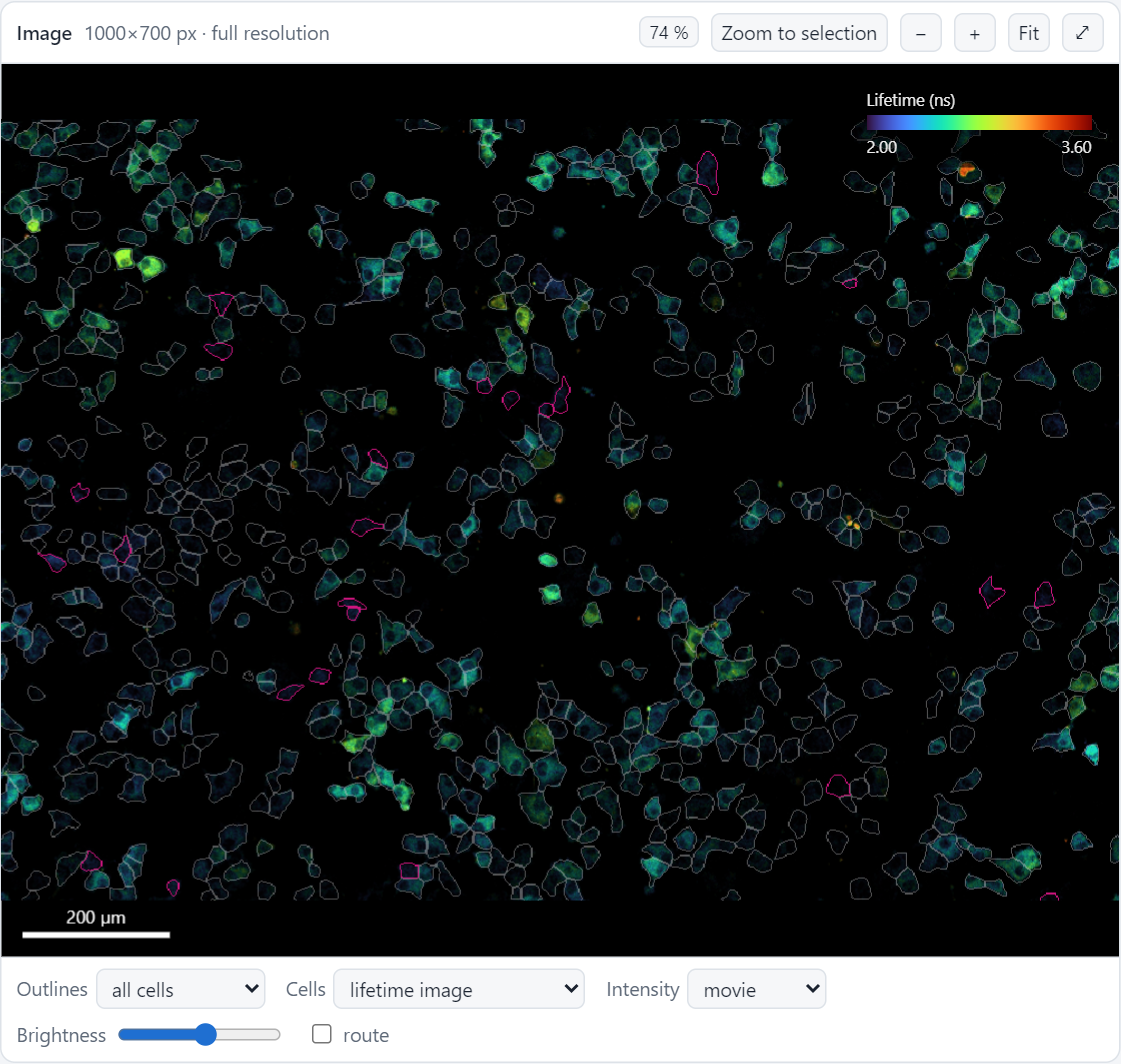
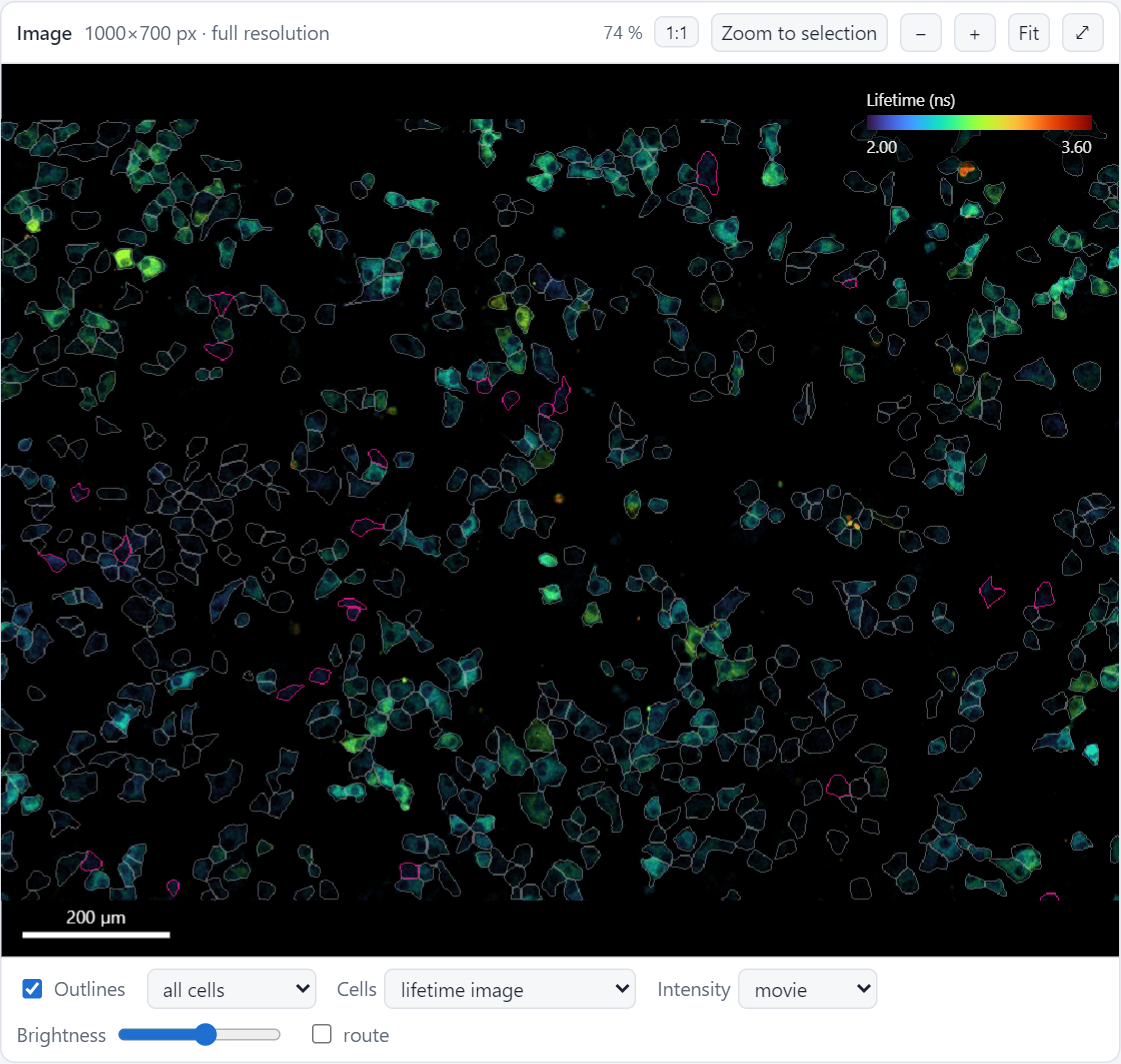
Dashboard: Zoom to selection never below Fit; the zoom percentage is a label with a 1:1 button (key 1); an Outlines checkbox to hide all outlines (key O, remembered)
Manual (dashboard page, keys) and screenshots updated.

diff --git a/src/fast_hippos/templates/dashboard/page.html b/src/fast_hippos/templates/dashboard/page.html
@@ -84,12 +84,12 @@
   </section>
   <section class="panel viewer">
     <div class="panel-h"><h2 title="The time-lapse with the lifetime as colour and the intensity as brightness. Drag to pan, Ctrl+scroll to zoom, click a cell to select it, double-click to zoom to it.">Image</h2><span id="vinfo" class="muted"></span><span class="sp"></span>
-      <button id="vzoom" class="small" title="Zoom: screen pixels per image pixel. Click for 100 % (one image pixel per screen pixel)">100 %</button><button id="vzsel" title="Zoom in on the selected cells, or on the hits when nothing is selected (Z)">Zoom to selection</button><button id="vzout" class="icon" title="Zoom out (or Ctrl+scroll wheel)">−</button><button id="vzin" class="icon" title="Zoom in (or Ctrl+scroll wheel)">+</button><button id="vfit" title="Show the whole image (F)">Fit</button><button id="vfull" class="icon" title="Full screen (Shift+F; Esc to leave)">⤢</button></div>
+      <span id="vzoom" class="zoomlvl" title="The current zoom: screen pixels per image pixel">100 %</span><button id="v100" class="small" title="Show the image at 100 %: one image pixel per screen pixel (1)">1:1</button><button id="vzsel" title="Zoom in on the selected cells, or on the hits when nothing is selected (Z)">Zoom to selection</button><button id="vzout" class="icon" title="Zoom out (or Ctrl+scroll wheel)">−</button><button id="vzin" class="icon" title="Zoom in (or Ctrl+scroll wheel)">+</button><button id="vfit" title="Show the whole image (F)">Fit</button><button id="vfull" class="icon" title="Full screen (Shift+F; Esc to leave)">⤢</button></div>
     <div id="vwrap"><canvas id="vimg"></canvas><canvas id="vsel"></canvas><canvas id="vhov"></canvas><svg id="vsvg" class="selsvg"></svg>
       <div id="vbar"><div id="vbarname"></div><canvas id="vbarc" width="256" height="1"></canvas><div class="ends"><span id="vbar0"></span><span id="vbar1"></span></div></div>
       <div id="loading"></div></div>
     <div class="panel-f">
-      <label title="Which cell outlines are drawn: only the selected cells, the hits, or all cells">Outlines <select id="outl"><option value="none">selection only</option><option value="hits">hits</option><option value="all">all cells</option></select></label>
+      <label title="Show or hide the cell outlines (O)"><input type="checkbox" id="voutl" checked> Outlines</label><select id="outl" title="Which cell outlines are drawn: only the selected cells, the hits, or all cells"><option value="none">selection only</option><option value="hits">hits</option><option value="all">all cells</option></select>
       <label title="Fill every cell with a colour for one of its values (e.g. its response), to see spatial patterns. Off = the lifetime image itself">Cells <select id="vfill"></select></label>
       <label title="Brightness from the current frame (movie) or from the average over all frames (projection, less noisy)">Intensity <select id="isrc"><option value="movie">movie</option><option value="projection">projection</option></select></label>
       <label class="slider" title="Brightness of the image">Brightness <input id="bright" type="range" min="-1" max="1.2" step="0.01" value="0.2"></label>
@@ -141,7 +141,7 @@
 <p class="help">Click a cell, trace, kymograph column, point or row to select it; <kbd>Ctrl</kbd>+click adds/removes;
 <kbd>Shift</kbd>+drag selects a box or lasso (image, scatter) or a range (kymograph). Drag to pan, <kbd>Ctrl</kbd>+scroll to zoom,
 double-click a cell to zoom to it. <kbd>Space</kbd> play, <kbd>←</kbd>/<kbd>→</kbd> frames, <kbd>Z</kbd> zoom to selection, <kbd>F</kbd> fit, <kbd>Shift</kbd>+<kbd>F</kbd> full screen,
-<kbd>L</kbd> box/lasso, <kbd>Esc</kbd> clear. <span id="ver"></span></p>
+<kbd>1</kbd> 100 %, <kbd>O</kbd> outlines on/off, <kbd>L</kbd> box/lasso, <kbd>Esc</kbd> clear. <span id="ver"></span></p>
 <div id="tip"></div>
 <script id="fh-data" type="application/json">__FH_DATA__</script>
 <script>

diff --git a/src/fast_hippos/templates/dashboard/viewer.js b/src/fast_hippos/templates/dashboard/viewer.js
@@ -223,7 +223,11 @@ function prefetch() {
   if (L === OVERVIEW) request(frameKey({ L: null }, next), []);
   else for (const t of tilesInView(L, r.width, r.height, view)) request(frameKey(t, next), []);
 }
-function drawViewerSel() { const [x, w, h] = canvasSize(vsel); if (S.fillMetric && C[S.fillMetric]) renderOutlines(x, w, h, view, fillImage); renderOutlines(x, w, h, view); }
+function drawViewerSel() {
+  const [x, w, h] = canvasSize(vsel);
+  if (S.fillMetric && C[S.fillMetric]) renderOutlines(x, w, h, view, fillImage);
+  if (S.showOutl) renderOutlines(x, w, h, view);
+}
 function drawViewerHov() {
   const [x, w, h] = canvasSize(vhov);
   if (S.hover >= 0) { x.fillStyle = css("--hover"); for (const [px, py, sz] of cellBoundary(S.hover, w, h, view)) x.fillRect(px, py, Math.max(1, sz), Math.max(1, sz)); }
@@ -307,6 +311,7 @@ function zoomTo(ids) {
   const pad = Math.max(20, 0.15 * Math.max(x1 - x0, y1 - y0)); x0 -= pad; y0 -= pad; x1 += pad; y1 += pad;
   const r = vwrap.getBoundingClientRect(); view.auto = false;
   const s = Math.min(32, Math.min(r.width / (x1 - x0), r.height / (y1 - y0)));
+  if (s <= fitScale() * 1.0001) { fitView(true, true); return; }  // cells all over the image: the whole image
   glideTo(s, r.width / 2 - (x0 + x1) / 2 * s, r.height / 2 - (y0 + y1) / 2 * s);
 }
 function imgCoords(ev) { const r = vwrap.getBoundingClientRect(); return [(ev.clientX - r.left - view.tx) / view.s, (ev.clientY - r.top - view.ty) / view.s]; }
@@ -343,12 +348,14 @@ function initViewer() {
   $("vzin").onclick = () => zc(1.4); $("vzout").onclick = () => zc(1 / 1.4); $("vfit").onclick = () => fitView(true, true);
   $("vzsel").onclick = () => zoomTo(S.sel.size ? [...S.sel] : HIT.map((h, i) => h ? i : -1).filter(i => i >= 0));
   $("outl").value = S.outl; $("outl").onchange = () => { S.outl = $("outl").value; outlinesChanged(); };
+  $("voutl").checked = S.showOutl; $("outl").disabled = !S.showOutl;
+  $("voutl").onchange = () => { S.showOutl = $("voutl").checked; $("outl").disabled = !S.showOutl; invalidate("viewerSel"); };
   $("isrc").onchange = () => { S.isrc = $("isrc").value; imageChanged(); };
   $("bright").oninput = () => { S.bright = Math.pow(10, +$("bright").value); imageChanged(); };
   $("vroute").checked = S.showRoute; $("vroute").onchange = () => { S.showRoute = $("vroute").checked; invalidate("viewerHov"); };
   const fm = $("vfill"); fm.add(new Option("lifetime image", "")); METRIC_KEYS.forEach(k => fm.add(new Option(k, k)));
   fm.onchange = () => { S.fillMetric = fm.value; fillsChanged(); };
-  $("vzoom").onclick = () => { const r = vwrap.getBoundingClientRect(); zoomAt(r.width / 2, r.height / 2, 1 / viewTarget().s); };
+  $("v100").onclick = () => { const r = vwrap.getBoundingClientRect(); zoomAt(r.width / 2, r.height / 2, 1 / viewTarget().s); };
   hitRGB = hexToRgb(css("--hit"));
   // when the size changes (window, full screen): refit, or keep the same spot in the middle when zoomed in
   let lastSize = null;

diff --git a/src/fast_hippos/templates/dashboard/persist.js b/src/fast_hippos/templates/dashboard/persist.js
@@ -3,7 +3,7 @@
 // selection, scroll position) only across a reload of the tab, e.g. after 'Apply to run' (sessionStorage).
 const PERSIST_KEY = "fast-hippos:" + location.pathname;
 const DISPLAY_KEYS = ["lut", "dmin", "dmax", "bright", "isrc", "outl", "tsrc", "show", "tcol", "tmode", "ksort", "kdesc", "rows",
-  "sortCol", "sortDir", "sx", "sy", "slogx", "slogy", "sclass", "hlog", "tool", "showRoute", "fillMetric"];
+  "sortCol", "sortDir", "sx", "sy", "slogx", "slogy", "sclass", "hlog", "tool", "showRoute", "fillMetric", "showOutl"];
 function readStore(store) { try { return JSON.parse(store.getItem(PERSIST_KEY) || "null"); } catch { return null; } }
 function writeStore(store, value) { try { store.setItem(PERSIST_KEY, JSON.stringify(value)); } catch { /* storage unavailable */ } }
 
@@ -40,6 +40,7 @@ function restoreSession() {
   if (![...$("ksort").options].some(o => o.value === S.ksort)) S.ksort = "@response";  // a value that no longer exists
   setIf("ksort", "value", S.ksort); setIf("kdir", "value", S.kdesc ? "1" : "0");
   setIf("vroute", "checked", S.showRoute); setIf("vroute2", "checked", S.showRoute);
+  setIf("voutl", "checked", S.showOutl); setIf("outl", "disabled", !S.showOutl);
   setIf("dmin", "value", +(+S.dmin).toPrecision(4)); setIf("dmax", "value", +(+S.dmax).toPrecision(4));
   hitRGB = hexToRgb(css("--hit"));
   if (S.fillMetric) fillsChanged();

diff --git a/src/fast_hippos/templates/dashboard/core.js b/src/fast_hippos/templates/dashboard/core.js
@@ -24,7 +24,7 @@ const S = {
   isrc: "movie", outl: "all", tsrc: SCR.params.smooth_traces > 0 ? "smoothed" : "raw",
   show: "all", tcol: D.screening.enabled ? "hit" : "cell", tmode: ["lines", "bands", "density"].includes(D.display.traces) ? D.display.traces : N > 300 ? "bands" : "lines",
   ksort: "@response", kdesc: false, kzoom: 1, kstart: 0, rows: "all", sortCol: null, sortDir: 1, sx: D.display.sx || "mean_intensity", sy: D.display.sy || "@value", slogx: !!D.display.slogx, slogy: !!D.display.slogy, sclass: false, hlog: false,
-  tool: "rect", showRoute: false, fillMetric: "",
+  tool: "rect", showRoute: false, fillMetric: "", showOutl: true,
 };
 const K = () => (S.tsrc === "smoothed" ? KS : KR);
 const val = (t, i) => K()[t * N + i];

diff --git a/src/fast_hippos/templates/dashboard/style.css b/src/fast_hippos/templates/dashboard/style.css
@@ -93,3 +93,6 @@ canvas.hs { width: 100%; height: 34px; display: block; cursor: ew-resize; }
 
 #trinfo { min-width: 0; overflow: hidden; text-overflow: ellipsis; white-space: nowrap; flex: 0 1 auto; }
 .panel-h:has(#trinfo) { flex-wrap: nowrap; } .panel-h:has(#trinfo) label { flex: none; }
+
+/* the current zoom of the image (a label; the 1:1 button next to it sets 100 %) */
+.zoomlvl { font-size: 12px; color: var(--muted); min-width: 3.5em; text-align: right; font-variant-numeric: tabular-nums; }

diff --git a/src/fast_hippos/templates/dashboard/main.js b/src/fast_hippos/templates/dashboard/main.js
@@ -56,6 +56,8 @@ function initControls() {
     else if (e.key === "f") fitView(true, true);
     else if (e.key === "F") $("vfull").click();
     else if (e.key === "l") { S.tool = S.tool === "lasso" ? "rect" : "lasso"; setTool(S.tool); }
+    else if (e.key === "o") $("voutl").click();
+    else if (e.key === "1") $("v100").click();
   });
   updateTimeLabel();
 }

diff --git a/manual/guide/dashboard.md b/manual/guide/dashboard.md
@@ -41,11 +41,14 @@ views. This has its own page: [Choosing the hits](choosing-hits.md). Fold the pa
 ![The image panel](../images/dash_image.png){ .shot width="600" }
 </figure>
 
-The lifetime image of the current frame: colour shows the lifetime, brightness the intensity. Outlines show all
-cells, the hits, the selection, or none.
+The lifetime image of the current frame: colour shows the lifetime, brightness the intensity. *Outlines* (below
+the image) shows the outlines of all cells, of the hits, or of the selection only; untick it (or press ++o++) to see
+the image without any outlines.
 
-- ++ctrl++ + scroll zooms, dragging pans, double-click zooms in on a cell, ++f++ (or *Fit*) shows the whole image; zooming out stops there.
-  *Zoom to selection* (++z++) zooms to the selected cells, or to the hits.
+- ++ctrl++ + scroll zooms, dragging pans, double-click zooms in on a cell, ++f++ (or *Fit*) shows the whole image;
+  zooming out stops there. *Zoom to selection* (++z++) zooms to the selected cells, or to the hits.
+- The percentage above the image is the current zoom; *1:1* (++1++) shows the image at 100 %, one image pixel per
+  screen pixel.
 - *Cells* colours the cells by a value instead, for instance their response, so that you see where the responders
   are. *Intensity* plays the intensity as a movie, or shows its projection.
 - *route* shows the visiting order of the hits in the `.rgn` files.
@@ -131,5 +134,7 @@ instance when new results arrive after *Apply*, it also keeps the frame, zoom an
 | ++arrow-left++ ++arrow-right++ | previous / next frame |
 | ++f++ | fit the image |
 | ++z++ | zoom to the selection (or the hits) |
+| ++1++ | show the image at 100 % |
+| ++o++ | show or hide the cell outlines |
 | ++l++ | switch between box and lasso selection |
 | ++esc++ | clear the selection |
